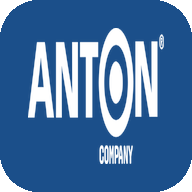
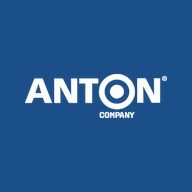
Add files via upload

diff --git a/sw.js b/sw.js
@@ -1,6 +1,6 @@
 // Anton Refrigerantes — Service Worker
 // Versión del caché: incrementar para forzar actualización
-const CACHE_NAME = 'anton-ref-v1';
+const CACHE_NAME = 'anton-ref-v2';
 
 // Archivos a cachear para uso offline
 const ASSETS = [
@@ -8,6 +8,7 @@ const ASSETS = [
   './manifest.json',
   './icons/icon-192.png',
   './icons/icon-512.png',
+  './icons/icon-maskable-512.png',
   // CDN resources (React, Babel)
   'https://cdnjs.cloudflare.com/ajax/libs/react/18.2.0/umd/react.production.min.js',
   'https://cdnjs.cloudflare.com/ajax/libs/react-dom/18.2.0/umd/react-dom.production.min.js',
